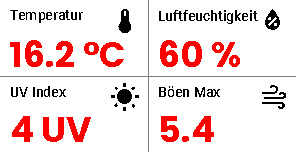
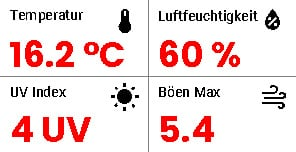
Fix typo in weather

diff --git a/readme.md b/readme.md
@@ -11,7 +11,7 @@ The templates need to be adjusted by the target device id of the OpenEPaperLink 
 |------------------|------------|-------------------------------------------------------------------------|--------------------------------------------------------------------------------------------------------------------------------------------------------------------------------------------------------------------------------------------------------|
 | 4 Sensor Grid    | 296x152    | ![4_sensor_grid_296x152.jpg](./preview/4_sensor_grid_296x152.jpg)       |                                                                                                                                                                                                                                                        |
 | Trash Calendar   | 250x128    | ![trash_calendar_250x128.jpg](./preview/trash_calendar_250x128.jpg)     | [Home Assistant Local Calendar](https://www.home-assistant.io/integrations/local_calendar/) with either manually filled data or automatically by for example [HACS Waste Calendar Schedule](https://github.com/mampfes/hacs_waste_collection_schedule) |
-| Weather Forecast | 296x152    | ![weahter_forecast_296x152.jpg](./preview/weahter_forecast_296x152.jpg) | [Home Assistant Weather](https://www.home-assistant.io/integrations/weather/])                                                                                                                                                                         |
-| Weather Forecast | 384x184    | ![weahter_forecast_384x184.jpg](./preview/weahter_forecast_384x184.jpg) | [Home Assistant Weather](https://www.home-assistant.io/integrations/weather/])                                                                                                                                                                         |
+| Weather Forecast | 296x152    | ![weather_forecast_296x152.jpg](./preview/weather_forecast_296x152.jpg) | [Home Assistant Weather](https://www.home-assistant.io/integrations/weather/])                                                                                                                                                                         |
+| Weather Forecast | 384x184    | ![weather_forecast_384x184.jpg](./preview/weather_forecast_384x184.jpg) | [Home Assistant Weather](https://www.home-assistant.io/integrations/weather/])                                                                                                                                                                         |
 
 Feel free to open a merge request to add new templates or open an issue to ask for new ones with a specific idea.
